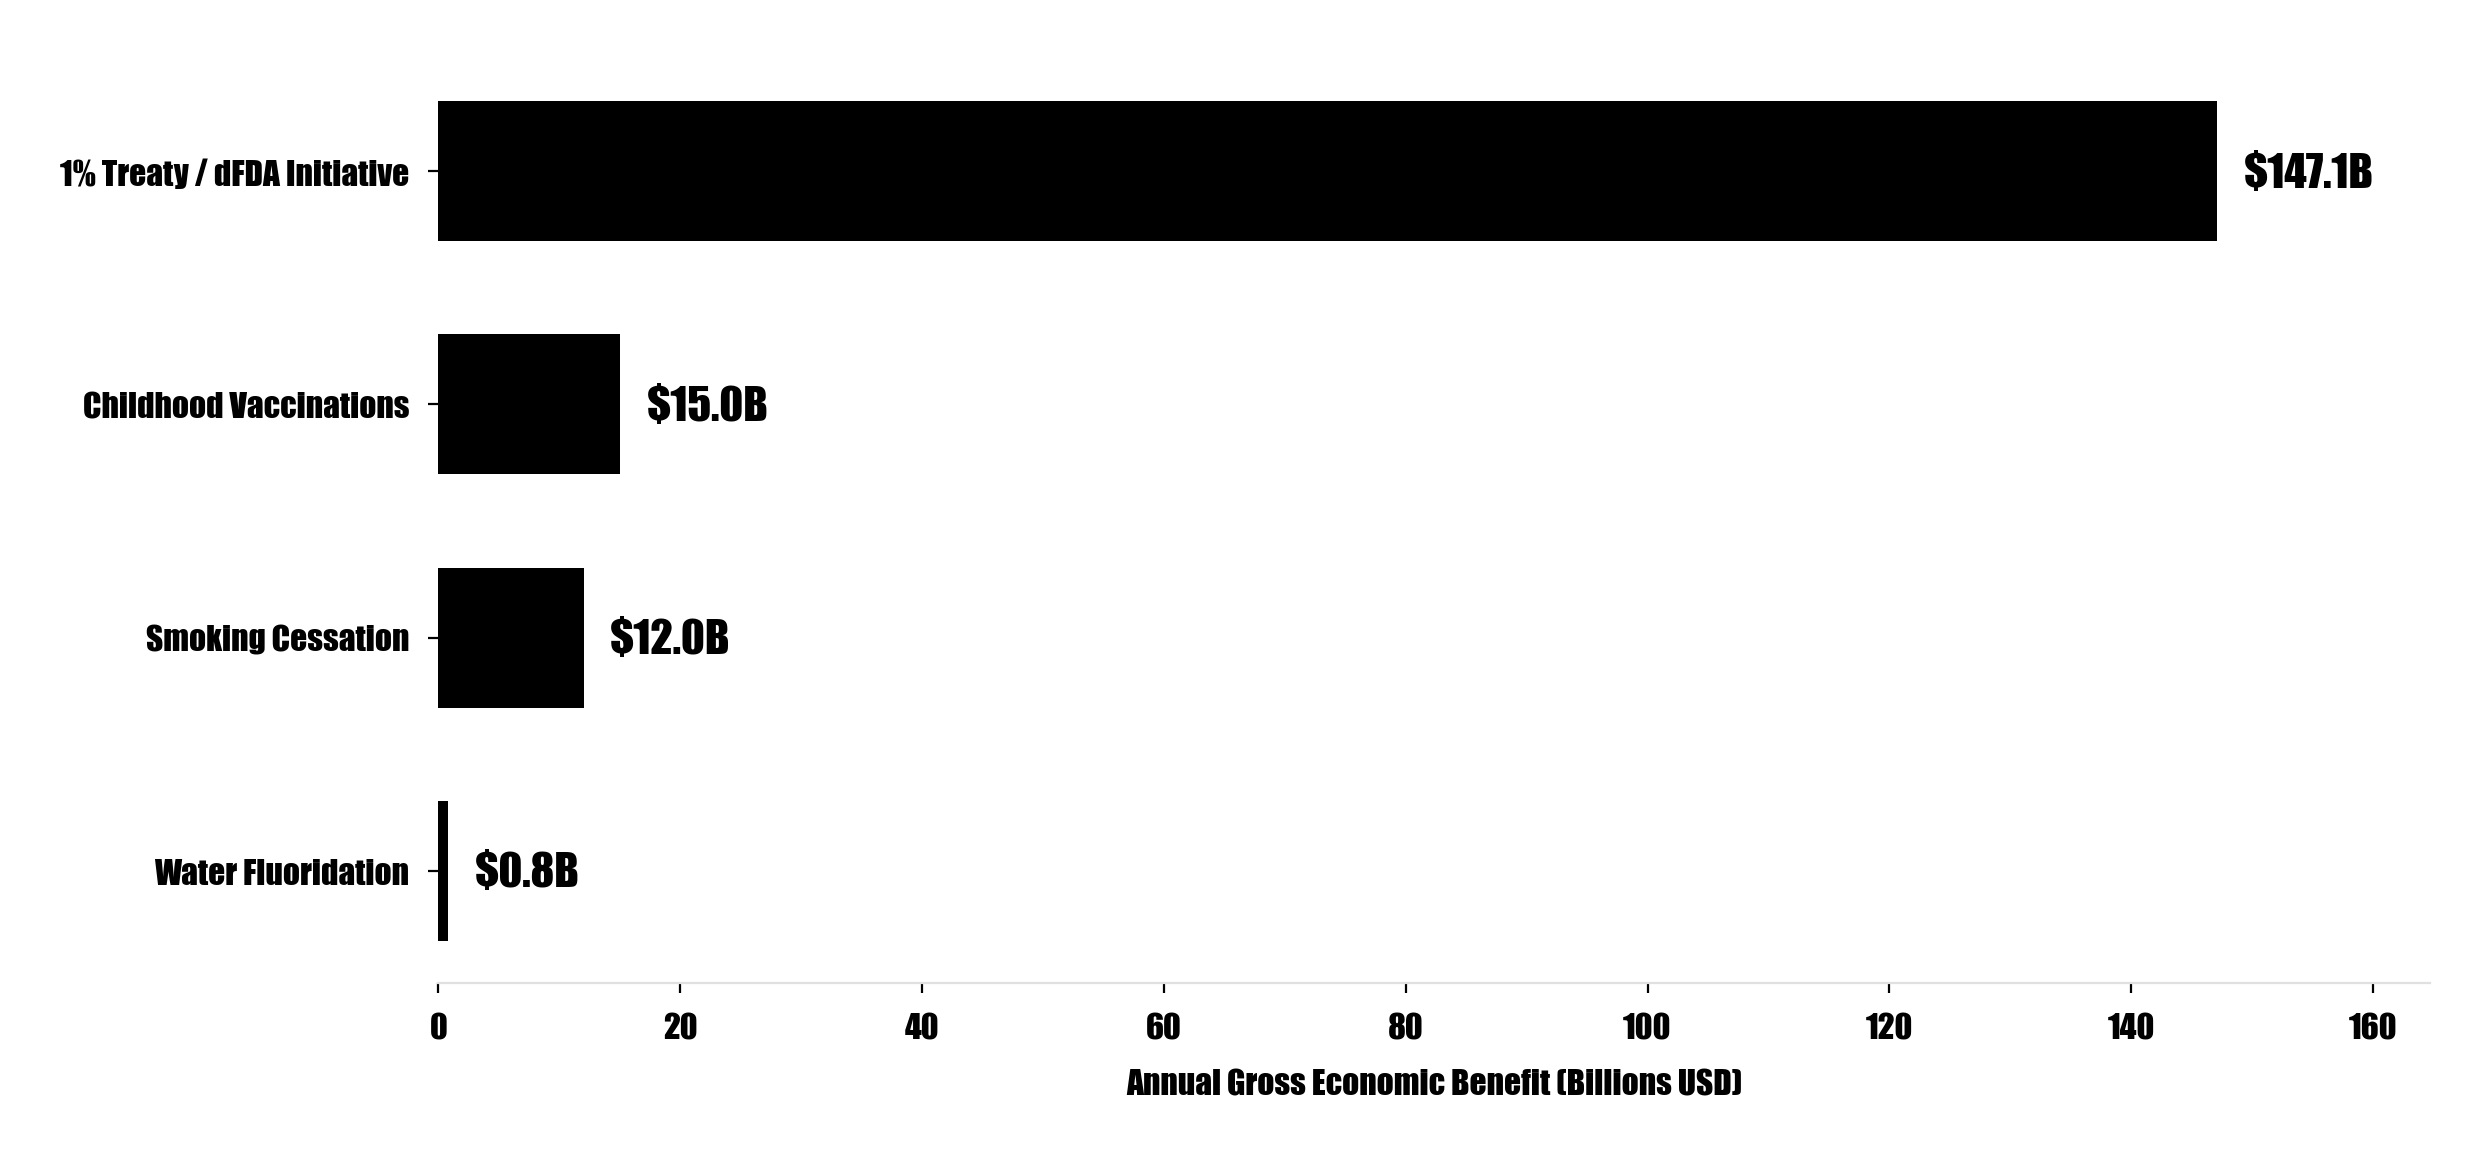
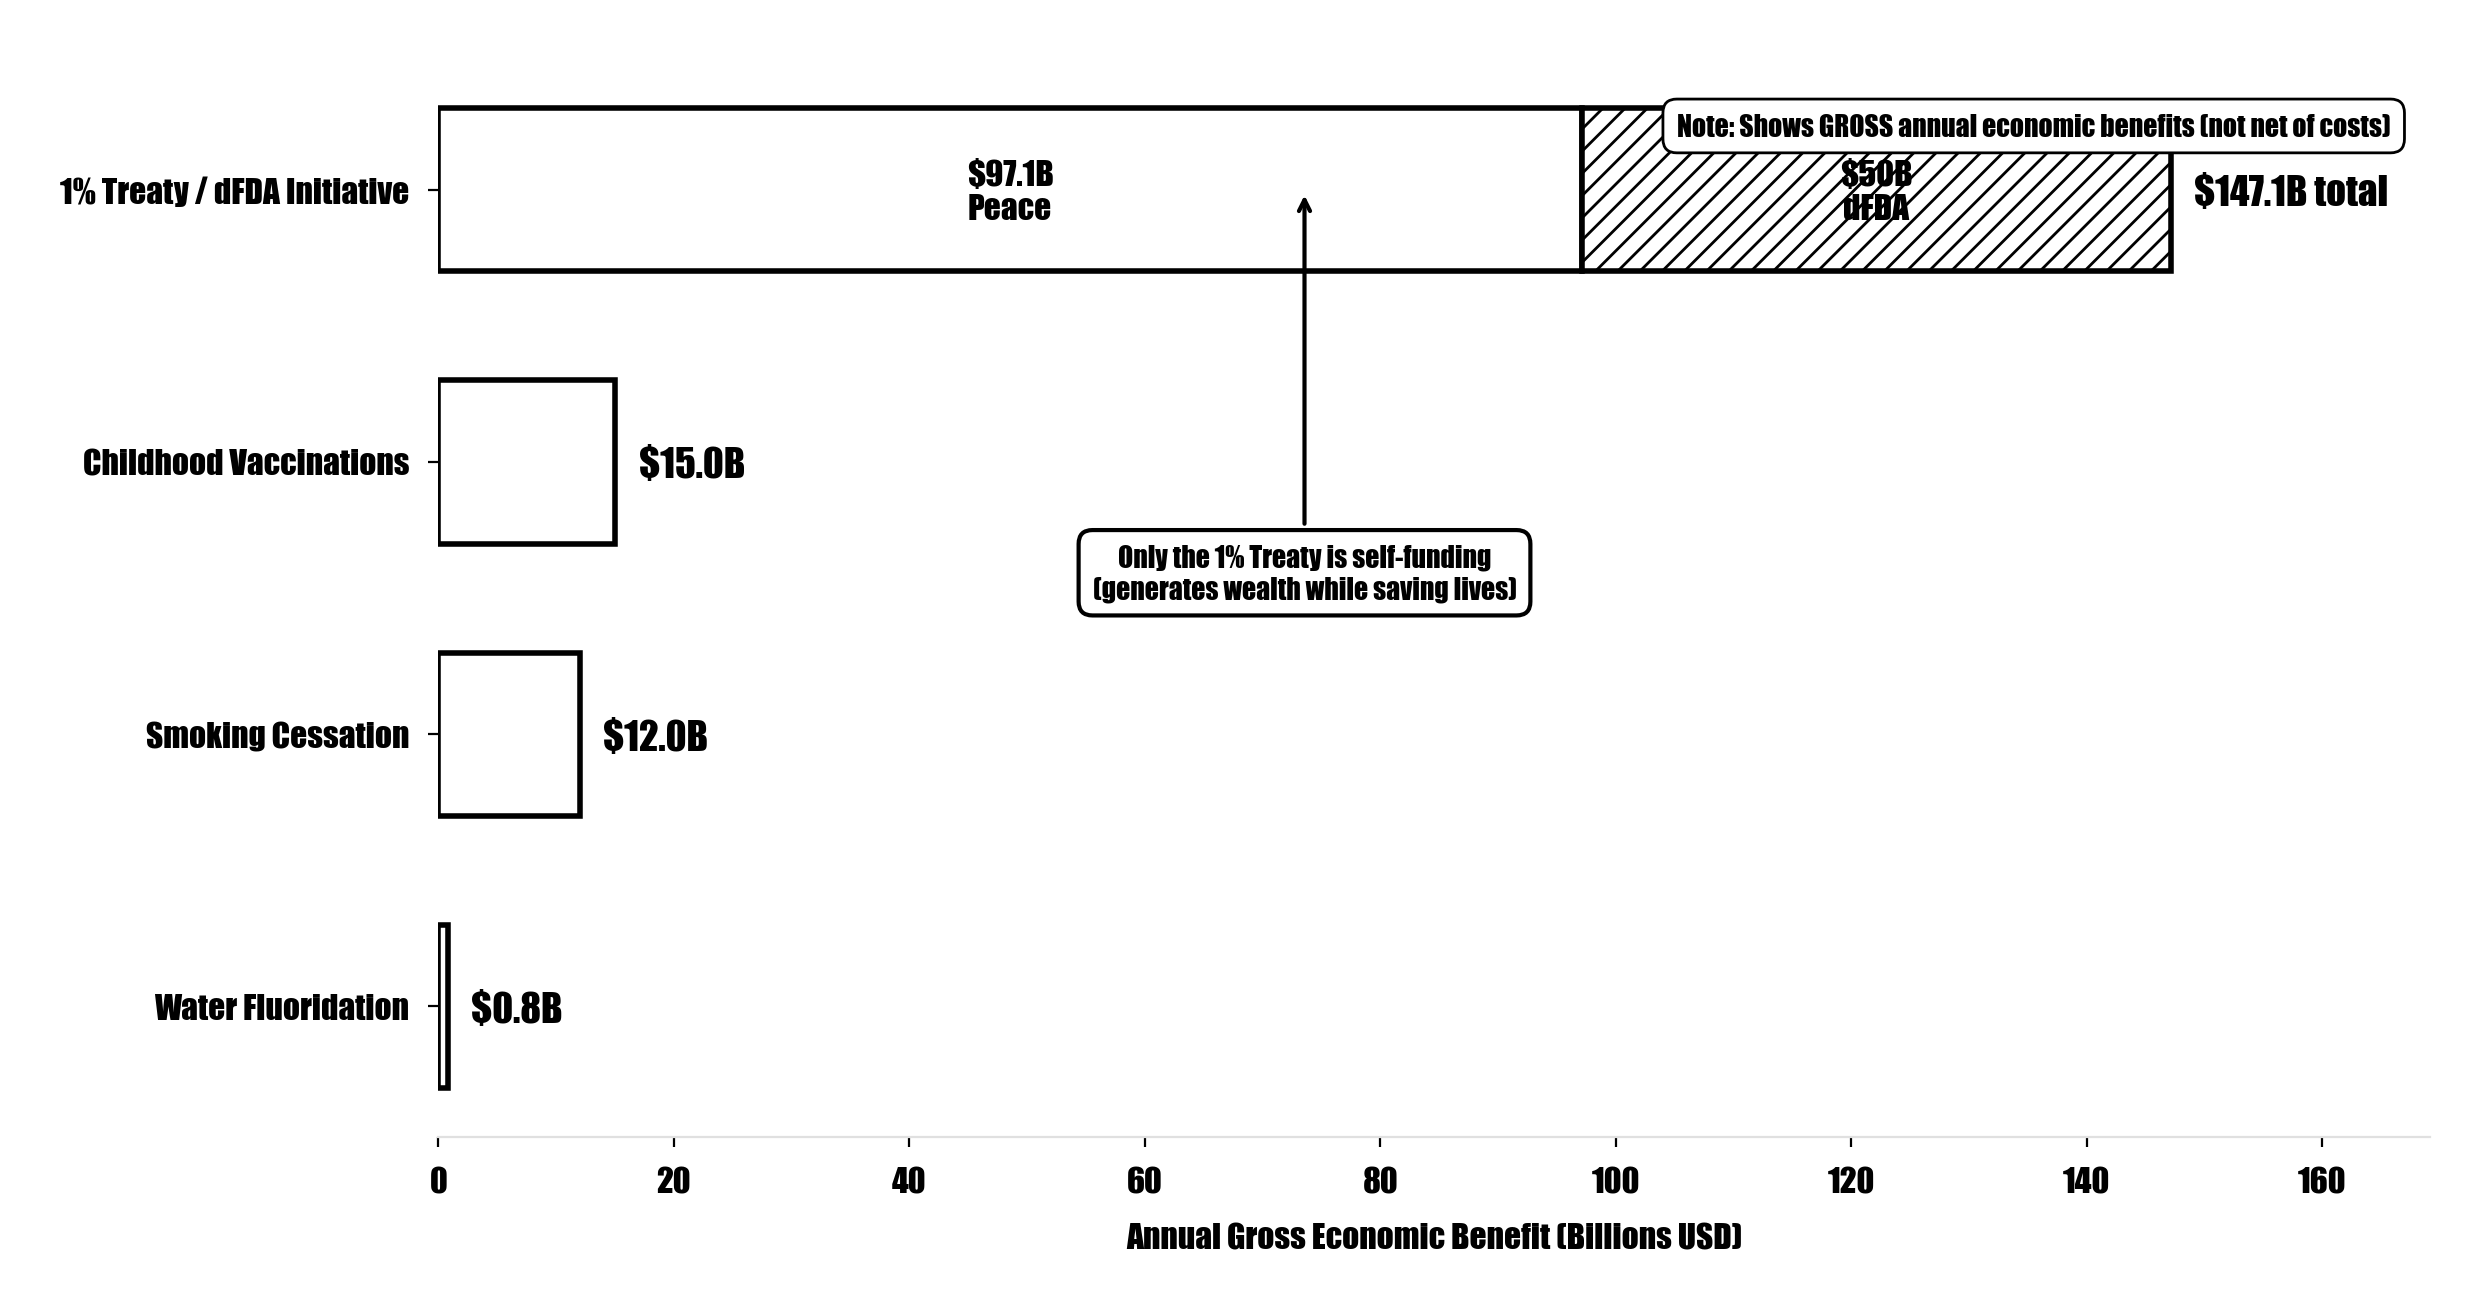
Add visual comparisons of cost-effectiveness and annual economic benefits for the 1% Treaty + dFDA initiative. Introduce new sections highlighting the stark differences in cost per life saved compared to traditional charities, and emphasize the self-funding nature of the 1% Treaty. Update figures an

diff --git a/brain/figures/_chart_style.py b/brain/figures/_chart_style.py
@@ -64,11 +64,11 @@ def setup_chart_style(style='light', dpi=150):
         text_color = COLOR_WHITE
         grid_color = '#4a4a4a'  # Charcoal for dark mode
 
-    # Typography - bold atomic age propaganda style
-    rcParams['font.family'] = 'sans-serif'
-    rcParams['font.sans-serif'] = ['Impact', 'Arial Black', 'Helvetica', 'Arial']
+    # Typography - classic newspaper serif style
+    rcParams['font.family'] = 'serif'
+    rcParams['font.serif'] = ['Georgia', 'Palatino', 'Palatino Linotype', 'Charter', 'Times New Roman', 'serif']
     rcParams['font.size'] = 12
-    rcParams['font.weight'] = 'bold'
+    rcParams['font.weight'] = 'normal'
 
     # Colors
     rcParams['figure.facecolor'] = bg_color
